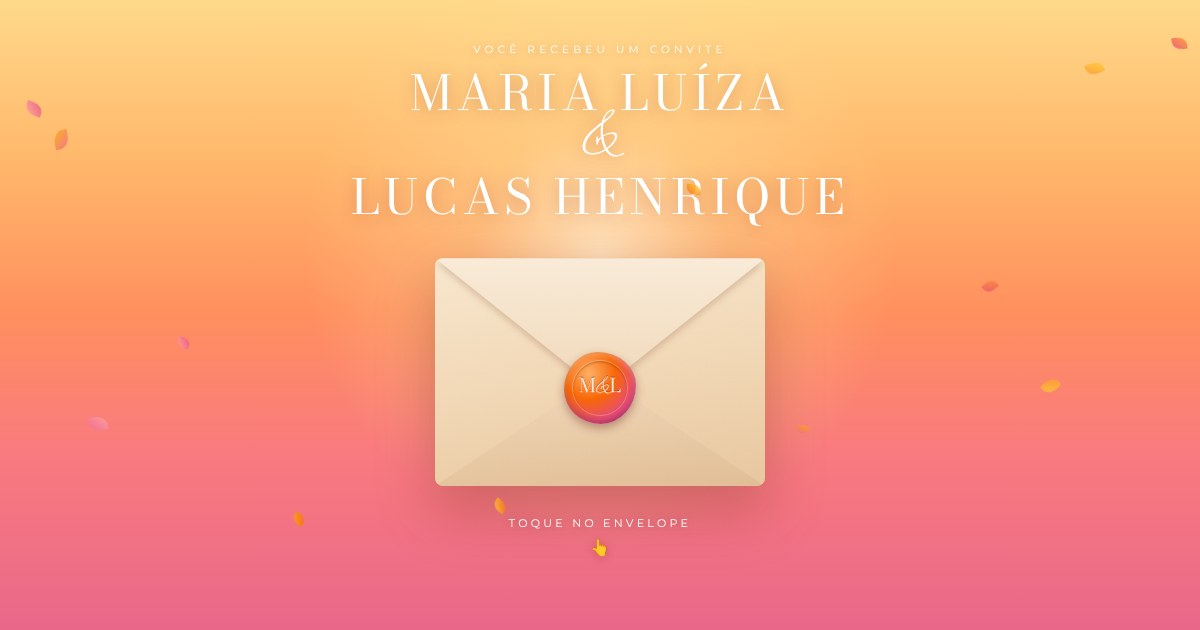
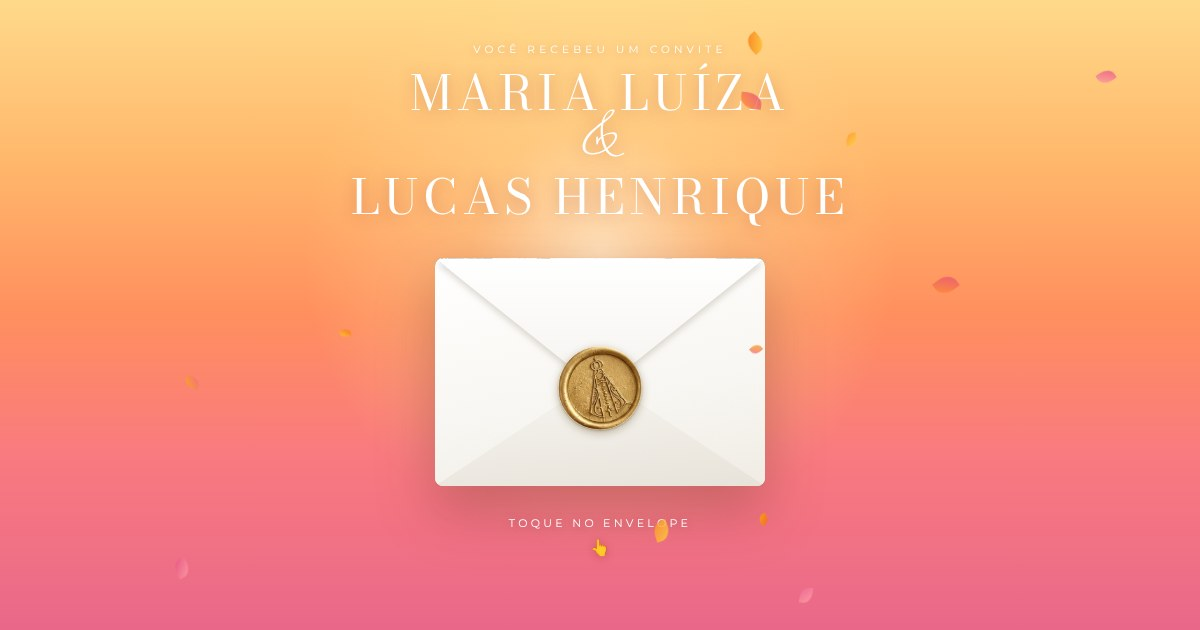
carta

diff --git a/index.html b/index.html
@@ -333,6 +333,26 @@
       text-shadow:0 -1px 0 rgba(120,20,40,.55),0 1px 0 rgba(255,220,190,.3)}
     .env-selo span em{font-family:'Mrs Saint Delafield',cursive;font-style:normal;font-size:1.15em;margin:0 .04em}
     .env.abrindo .env-selo{transform:translate(-50%,-50%) scale(1.3);opacity:0}
+
+    /* ===== Envelope deste casamento: papel branco, selo dourado de Nossa Senhora e forro com a igreja em aquarela ===== */
+    .env{filter:drop-shadow(0 22px 28px rgba(90,30,30,.32))}
+    /* o forro é UMA imagem contínua: da ponta da aba aberta (58% acima do envelope) até o fundo do "V" (55% para baixo) */
+    .env{--h:calc(min(330px,84vw) / 1.45)}
+    .env-costas{background:url("forro.jpg") center calc(var(--h) * -.58) / auto calc(var(--h) * 1.13) no-repeat,#f4f1ea}
+    .env-frente{background:var(--papel),linear-gradient(170deg,#ffffff 0%,#f8f6f1 60%,#efebe3 100%)}
+    .env-frente::after{background:linear-gradient(0deg,rgba(120,100,70,.07),rgba(255,255,255,.3))}
+    .env-aba{filter:drop-shadow(0 4px 3px rgba(90,70,40,.2))}
+    .env-aba i{background:var(--papel),linear-gradient(180deg,#ffffff,#eeeae2)}
+    /* forro: aparece por dentro da aba quando ela vira */
+    .env-aba i::after{content:"";position:absolute;left:0;right:0;top:0;height:58%;background:url("forro.jpg") center 0 / auto calc(var(--h) * 1.13) no-repeat;
+      transform:scaleY(-1);opacity:0;transition:opacity 0s linear .75s}
+    .env.abrindo .env-aba i::after{opacity:1}
+    .env-selo{width:84px;height:84px;border-radius:50%;background:url("selo.png") center/cover;
+      box-shadow:0 3px 8px rgba(90,60,10,.35), 0 1px 2px rgba(90,60,10,.3)}
+    .env-selo::before,.env-selo span{display:none !important}
+    /* aberto = como na foto: aba virada com a igreja, sem carta subindo */
+    .env-carta{display:none !important}
+    .env.abrindo{transform:translateY(70px)}
     .c-eyebrow,.c-names,.c-hint{transition:opacity .6s ease .25s}
     .capa.abrindo .c-eyebrow,.capa.abrindo .c-names,.capa.abrindo .c-hint{opacity:0}
     .c-hint{margin-top:30px;font-size:11px;letter-spacing:.3em;text-transform:uppercase;text-shadow:0 1px 8px rgba(150,40,40,.35)}
@@ -1095,7 +1115,7 @@
       $('env').addEventListener('click', () => {
         if (aberto) return; aberto = true; vibra(15); tocarMusica();
         $('env').classList.add('abrindo'); $('capa').classList.add('abrindo');
-        setTimeout(abrir, 2000);
+        setTimeout(abrir, 2900);   // segura o envelope aberto (com a igreja) antes de mostrar o convite
       });
       // link com #convite pula o envelope — útil para testar
       if (location.hash === '#convite' || location.search.includes('abrir')) { document.body.classList.add('opened'); document.body.classList.remove('locked'); $('capa').remove(); }
